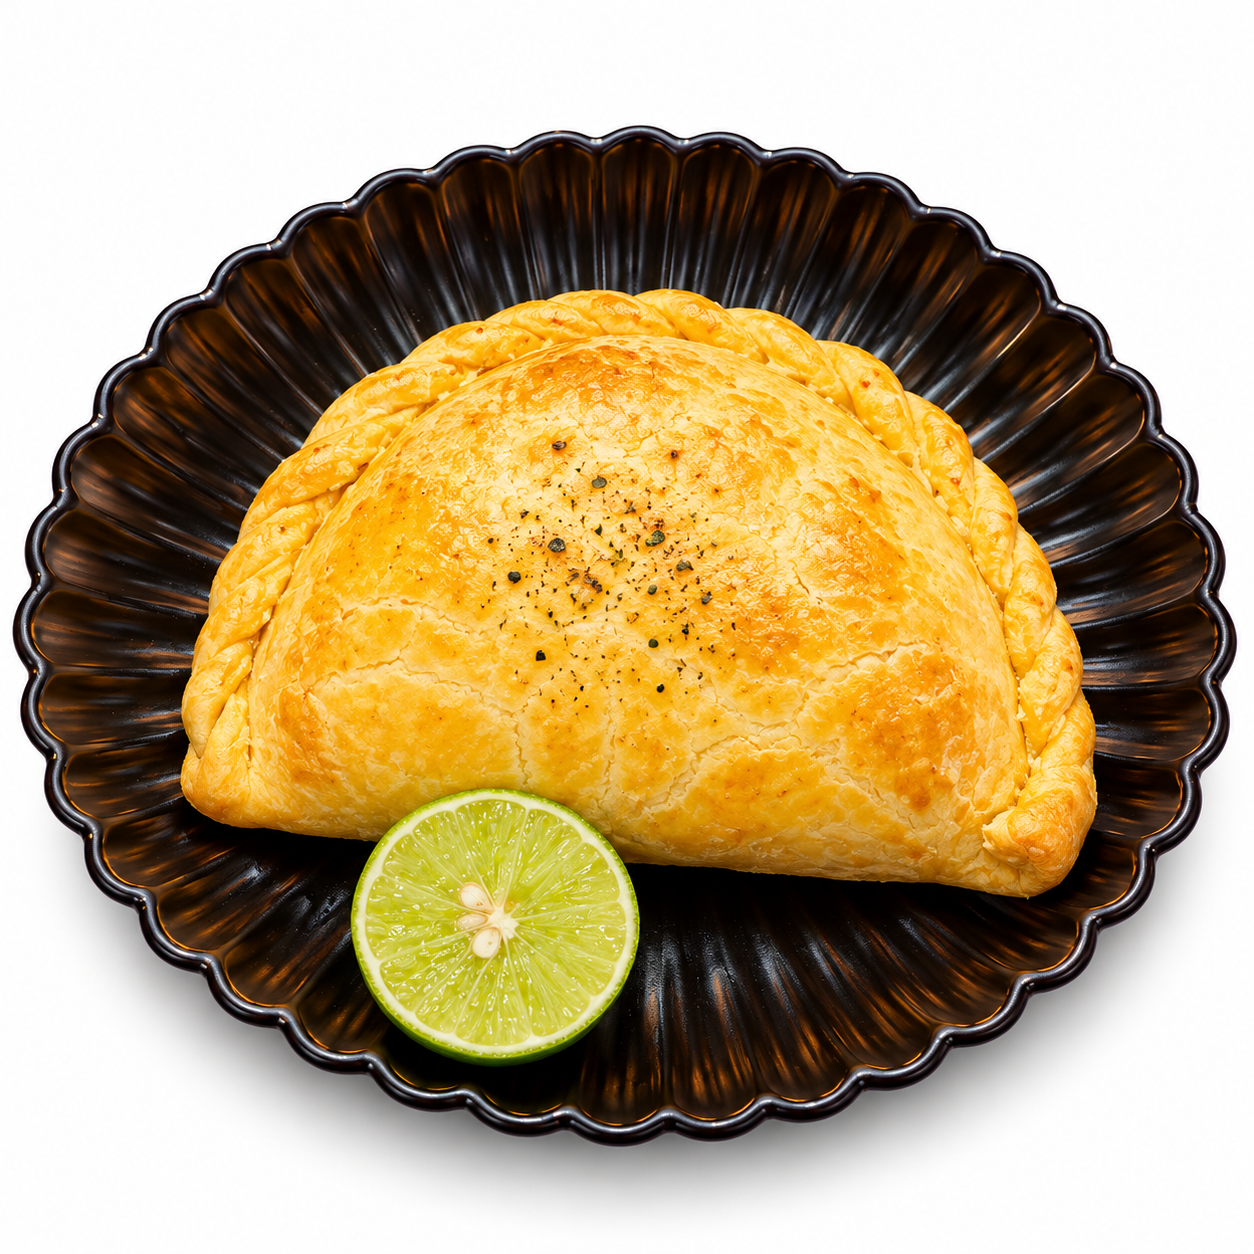
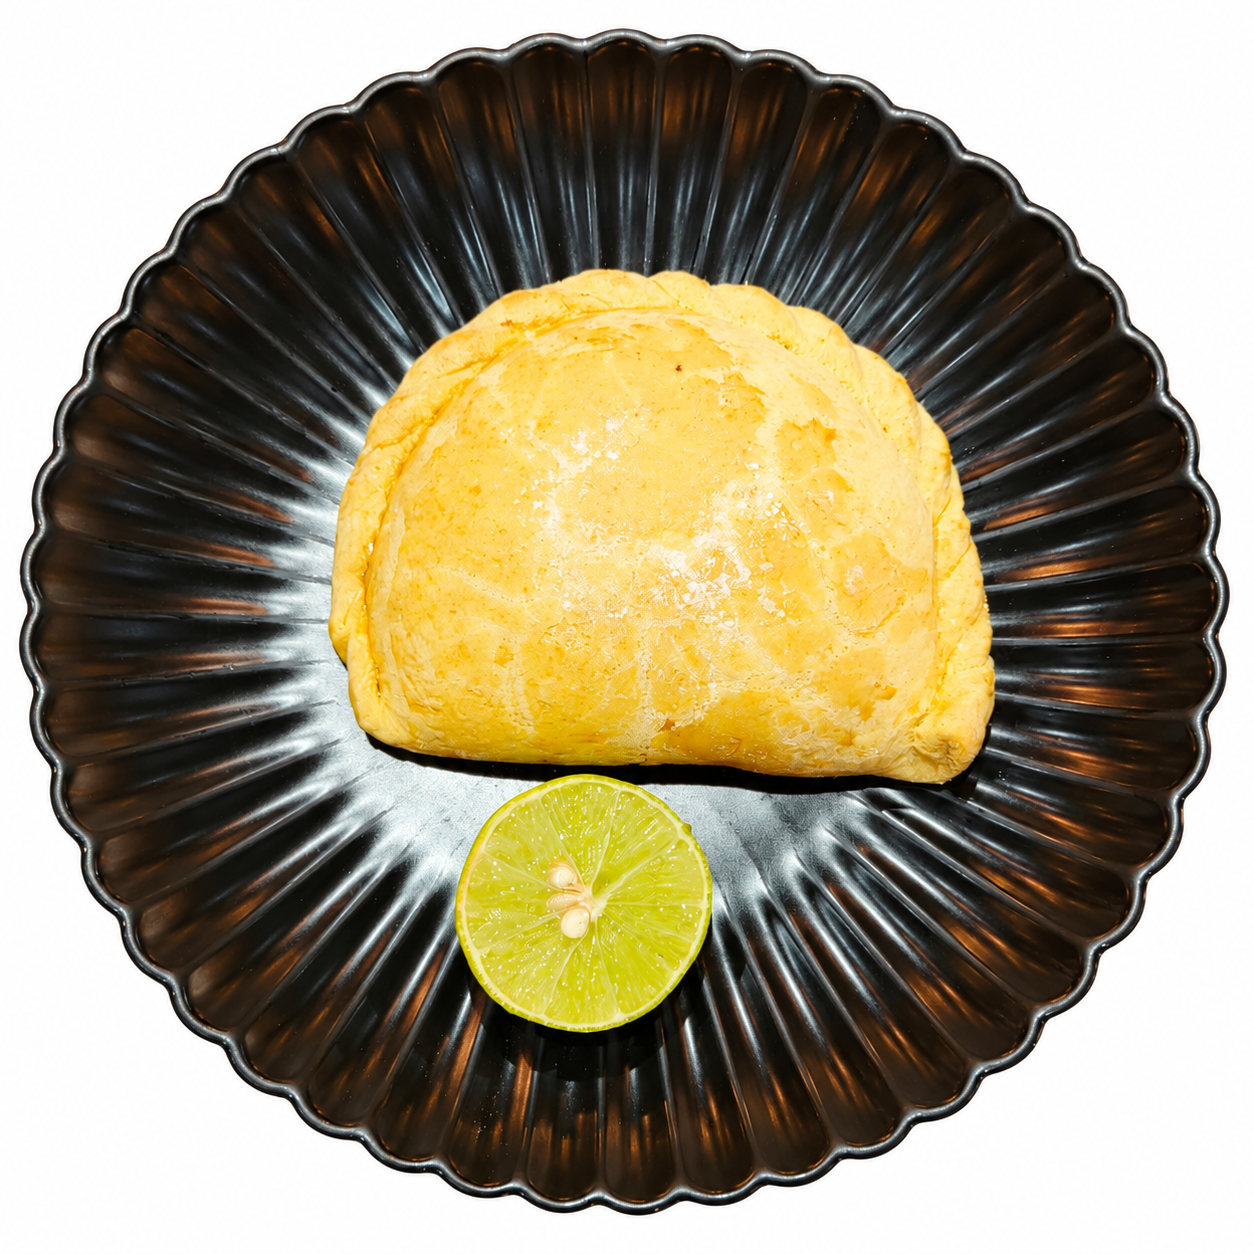
cambios yogurt

diff --git a/index.html b/index.html
@@ -687,11 +687,11 @@
     <div class="item-info"><div class="item-name">Ensalada de fruta</div></div>
     <div class="item-price">14.00</div>
   </div>
-  <div class="item item-preview" data-images="img/ensalada_fruta/yogurt_frutado_fresa.png, img/ensalada_fruta/yogurt_frutado_vainilla.png" data-image-descriptions="Yogurt frutado de fresa|Yogurt frutado de vainilla">
+  <div class="item item-preview" data-images="img/ensalada_fruta/yogurt_frutado_fresa.png">
     <div class="item-info"><div class="item-name">Yogurt frutado</div></div>
     <div class="item-price">8.00</div>
   </div>
-  <div class="item">
+  <div class="item item-preview" data-images="img/ensalada_fruta/yogurt_cereal.png">
     <div class="item-info"><div class="item-name">Yogurt con cereal</div></div>
     <div class="item-price">6.00</div>
   </div>
